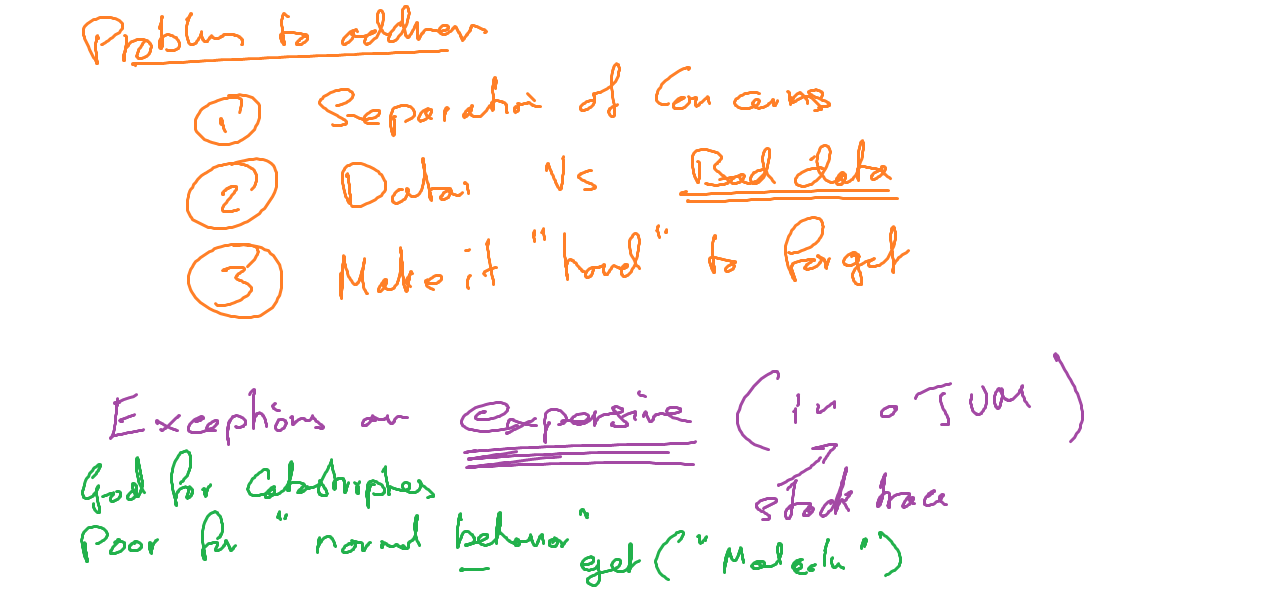
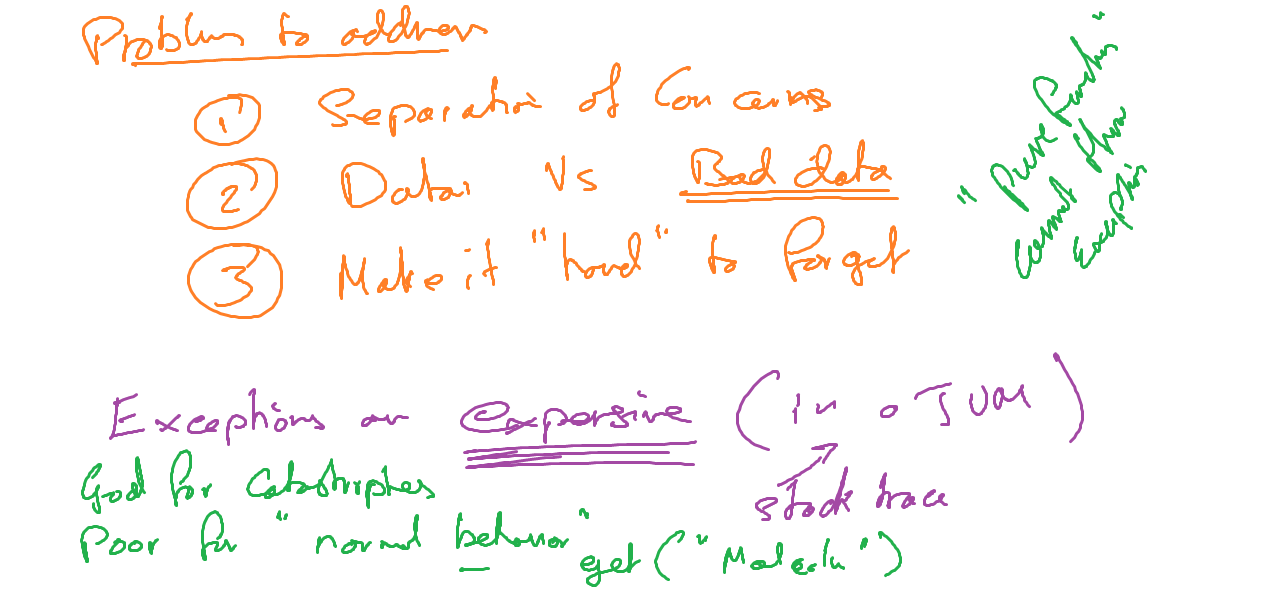
Either with wrap function

Changed region(s): [[0.7382, 0.061, 0.9227, 0.4881]]

diff --git a/src/main/java/processmany/MagicBucket.java b/src/main/java/processmany/MagicBucket.java
@@ -1,0 +1,63 @@
+package processmany;
+
+import java.util.ArrayList;
+import java.util.Arrays;
+import java.util.Iterator;
+import java.util.List;
+import java.util.function.Consumer;
+import java.util.function.Function;
+import java.util.function.Predicate;
+
+public class MagicBucket implements Iterable<String> {
+  private Iterable<String> self;
+  public MagicBucket(Iterable<String> contents) {
+    self = contents;
+  }
+
+//  public void forEvery(Consumer<String> op) {
+//    for (String s : self) {
+//      op.accept(s);
+//    }
+//  }
+
+  public MagicBucket map(Function<String, String> op) {
+    List<String> out = new ArrayList<>();
+    for (String s : self) {
+      out.add(op.apply(s));
+    }
+    return new MagicBucket(out);
+
+  }
+
+  public MagicBucket filter(Predicate<String> pred) {
+    List<String> out = new ArrayList<>();
+    for (String s : self) {
+      if (pred.test(s)) {
+        out.add(s);
+      }
+    }
+    return new MagicBucket(out);
+  }
+
+  public static void main(String[] args) {
+    MagicBucket names = new MagicBucket(Arrays.asList("Fred", "Jim", "Sheila"));
+    // lose short names, make all upper case
+
+//    for (String s : names) {
+//      if (s.length() > 3) {
+//        System.out.println(s.toUpperCase());
+//      }
+//    }
+
+    names = new MagicBucket(Arrays.asList());
+    names
+        .filter(s -> s.length() > 3)
+        .map(s -> s.toUpperCase())
+        .forEach(s -> System.out.println(s));
+  }
+
+  @Override
+  public Iterator<String> iterator() {
+    return self.iterator();
+  }
+}

diff --git a/src/main/java/processmany/Either.java b/src/main/java/processmany/Either.java
@@ -1,0 +1,55 @@
+package processmany;
+
+import java.util.function.Consumer;
+import java.util.function.Function;
+
+@FunctionalInterface
+interface ExFunction<E, F> {
+  F apply(E e) throws Throwable;
+}
+
+public class Either<E> {
+  private E value;
+  private Throwable problem;
+
+  private Either() {
+  }
+
+  public static <E> Either<E> success(E value) {
+    Either<E> self = new Either();
+    self.value = value;
+    return self;
+  }
+
+  public static <E> Either<E> failure(Throwable problem) {
+    Either<E> self = new Either();
+    self.problem = problem;
+    return self;
+  }
+
+  public void ifSuccess(Consumer<E> op) {
+    if (problem == null) {
+      op.accept(value);
+    }
+  }
+
+  public void ifFailed(Consumer<Throwable> op) {
+    if (problem != null) {
+      op.accept(problem);
+    }
+  }
+
+  public boolean isSuccess() {
+    return problem == null;
+  }
+
+  public static <E, F> Function<E, Either<F>> wrap(ExFunction<E, F> inFunc) {
+    return e -> {
+      try {
+        return Either.success(inFunc.apply(e));
+      } catch (Throwable t) {
+        return Either.failure(t);
+      }
+    };
+  }
+}

diff --git a/src/main/java/processmany/UseEither.java b/src/main/java/processmany/UseEither.java
@@ -1,0 +1,35 @@
+package processmany;
+
+import java.io.BufferedReader;
+import java.nio.file.Files;
+import java.nio.file.Paths;
+import java.util.List;
+import java.util.function.Function;
+
+public class UseEither {
+  public static Either<List<String>> read(String path) {
+    try {
+      return Either.success(Files.readAllLines(Paths.get(path)));
+    } catch (Throwable t) {
+      return Either.failure(t);
+    }
+  }
+  public static void main2(String[] args) {
+//    BufferedReader br = Files.newBufferedReader(Paths.get("data.txt"));
+    Either<List<String>> ebr = read("xxdata.txt");
+
+    ebr.ifSuccess(br -> br.forEach(l -> System.out.println(l)));
+
+    ebr.ifFailed(t -> System.out.println("Problem! " + t.getMessage()));
+  }
+  public static void main(String[] args) {
+    Function<String ,Either<List<String>>> funct =
+        Either.wrap(n -> Files.readAllLines(Paths.get(n)));
+    
+    Either<List<String>> ebr = funct.apply("data.txt");
+
+    ebr.ifSuccess(br -> br.forEach(l -> System.out.println(l)));
+
+    ebr.ifFailed(t -> System.out.println("Problem! " + t.getMessage()));
+  }
+}

diff --git a/src/main/java/processmany/UseOptional.java b/src/main/java/processmany/UseOptional.java
@@ -1,0 +1,30 @@
+package processmany;
+
+import java.util.HashMap;
+import java.util.Map;
+import java.util.Optional;
+
+public class UseOptional {
+  public static void main1(String[] args) {
+    Map<String, String> names = new HashMap<>();
+    names.put("Fred", "Jones");
+    String fName = "FRed";
+
+    String lastName = names.get(fName);
+    String shouted = lastName.toUpperCase();
+    String greeting = "Dear Mx. " + shouted;
+    System.out.println(greeting);
+  }
+  public static void main(String[] args) {
+    Map<String, String> names = new HashMap<>();
+    names.put("Fred", "Jones");
+    Optional<Map<String, String>> nameOpt = Optional.of(names);
+    String fName = "FRed";
+
+    nameOpt
+        .map(m -> m.get(fName))
+        .map(s -> s.toUpperCase())
+        .map(s -> "Dear Mx. " + s)
+        .ifPresent(s -> System.out.println(s));
+  }
+}
